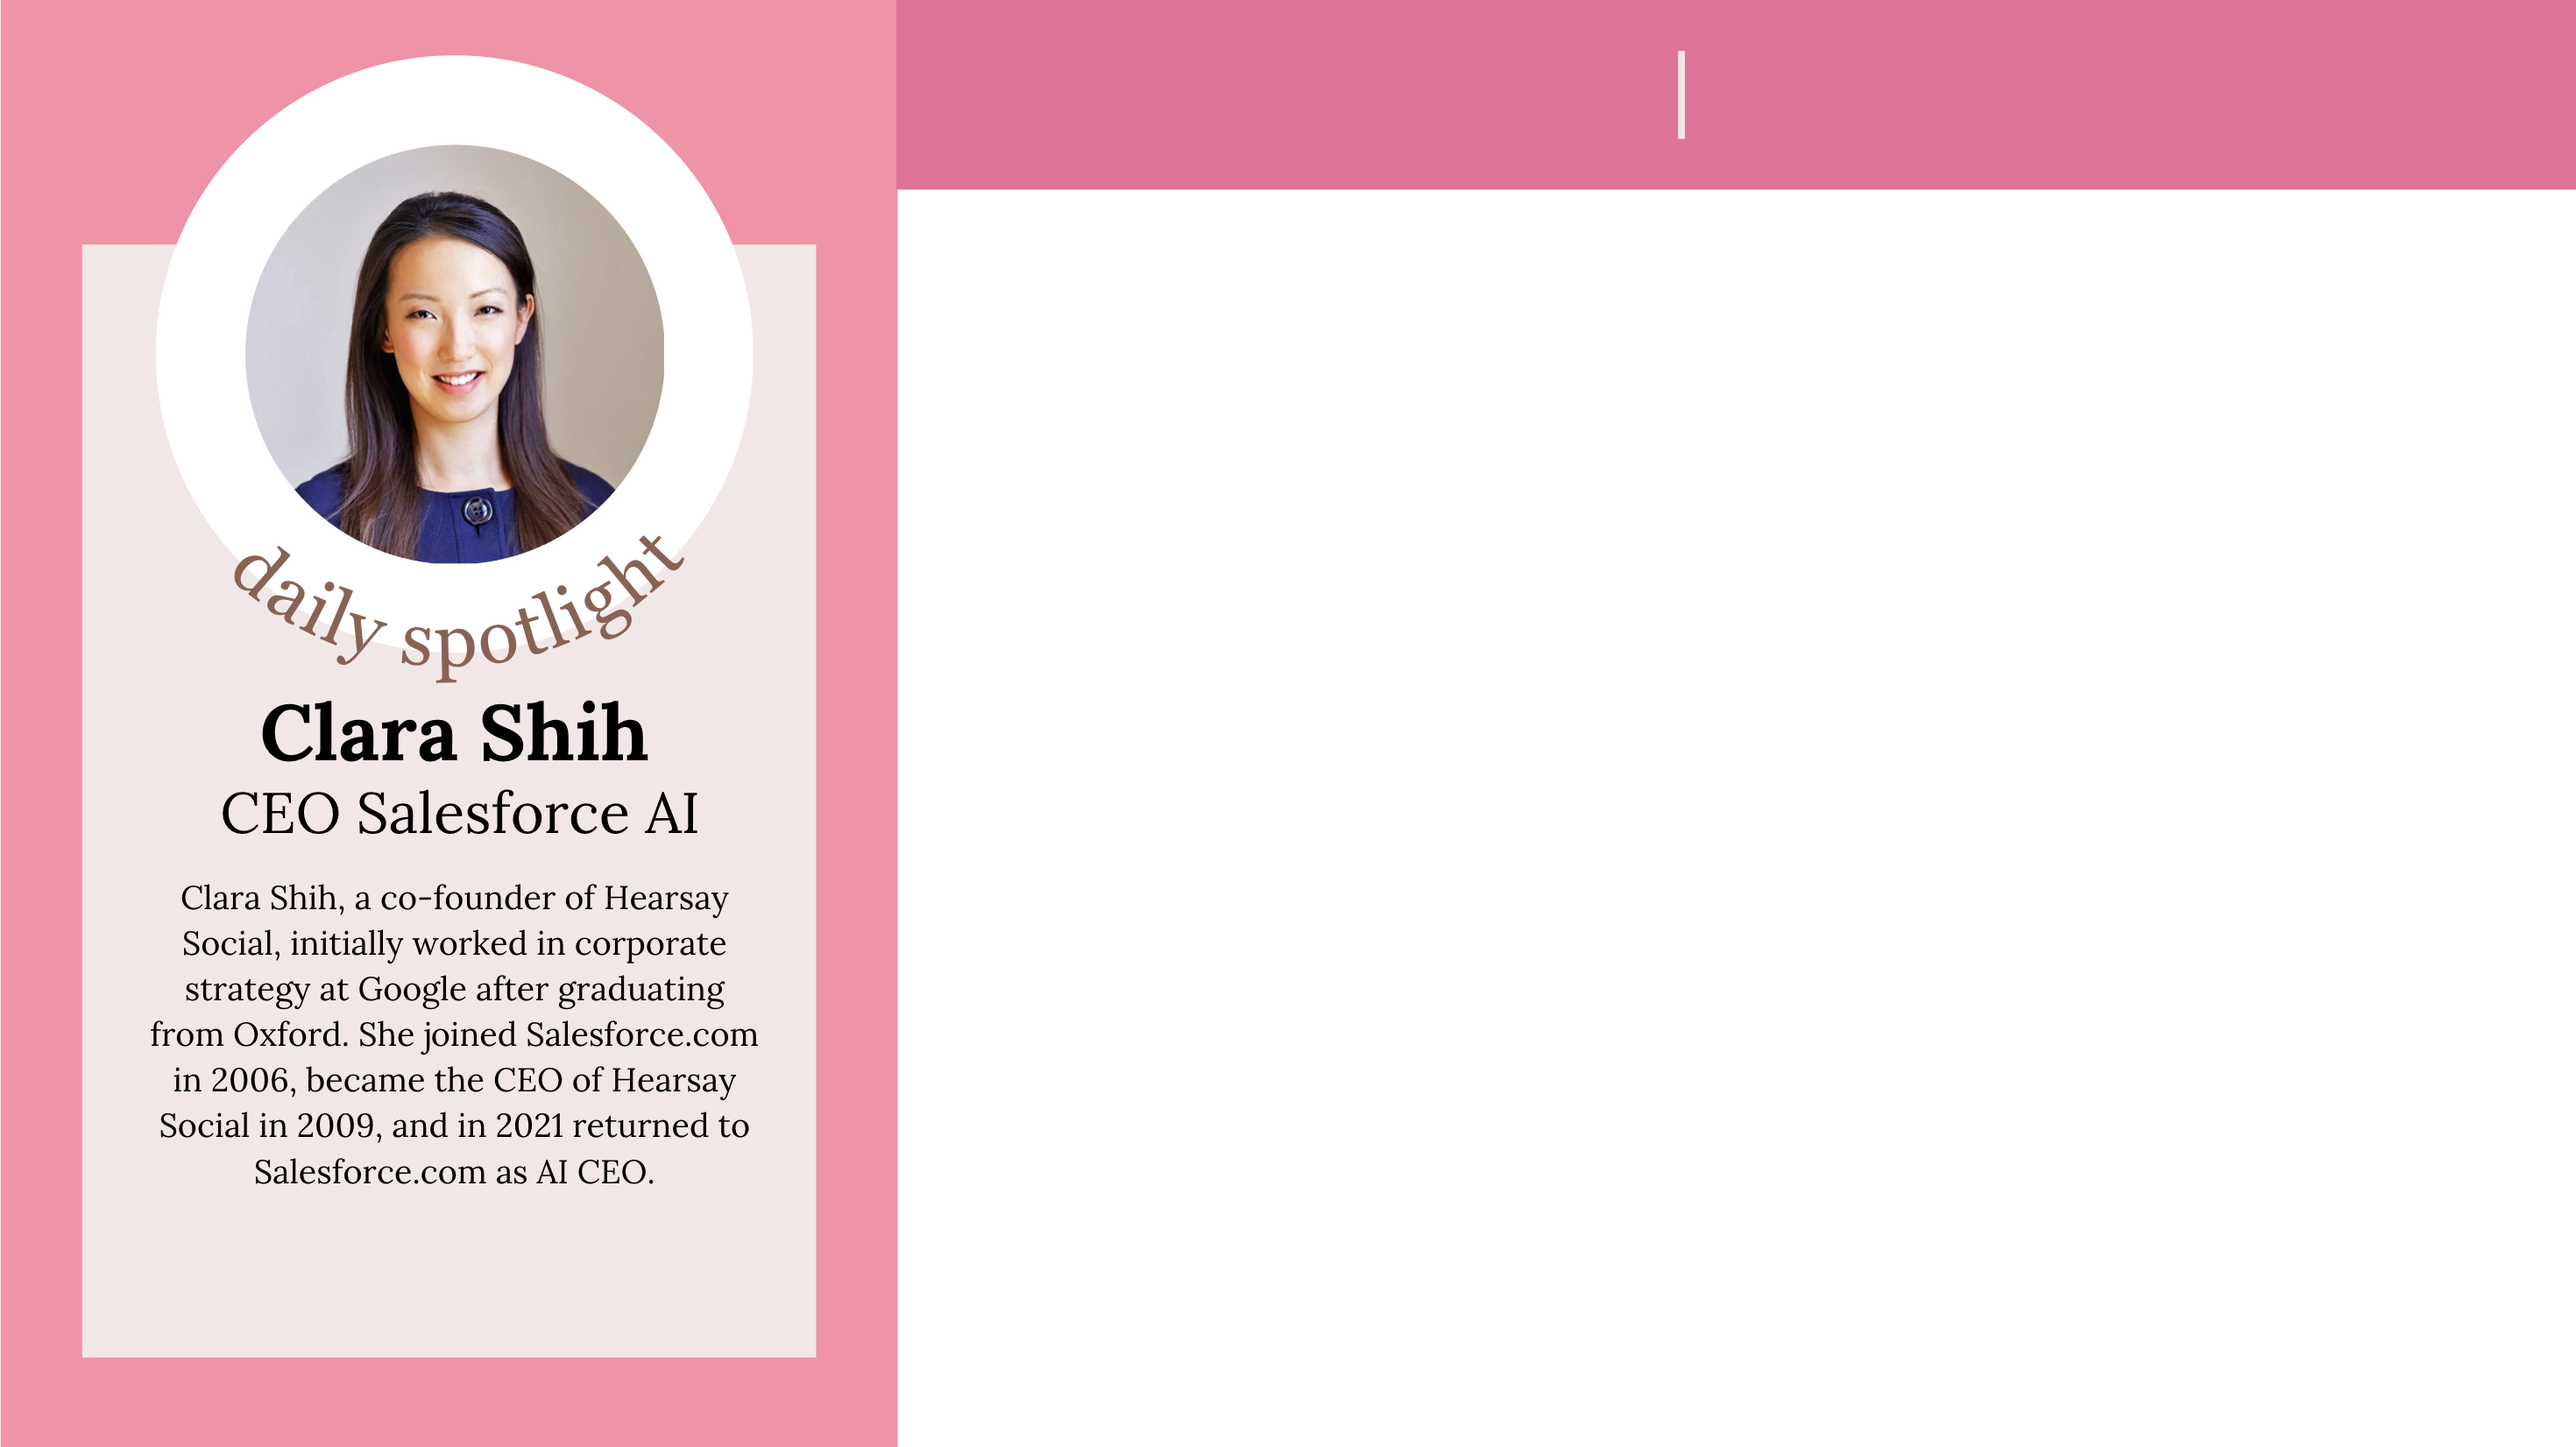
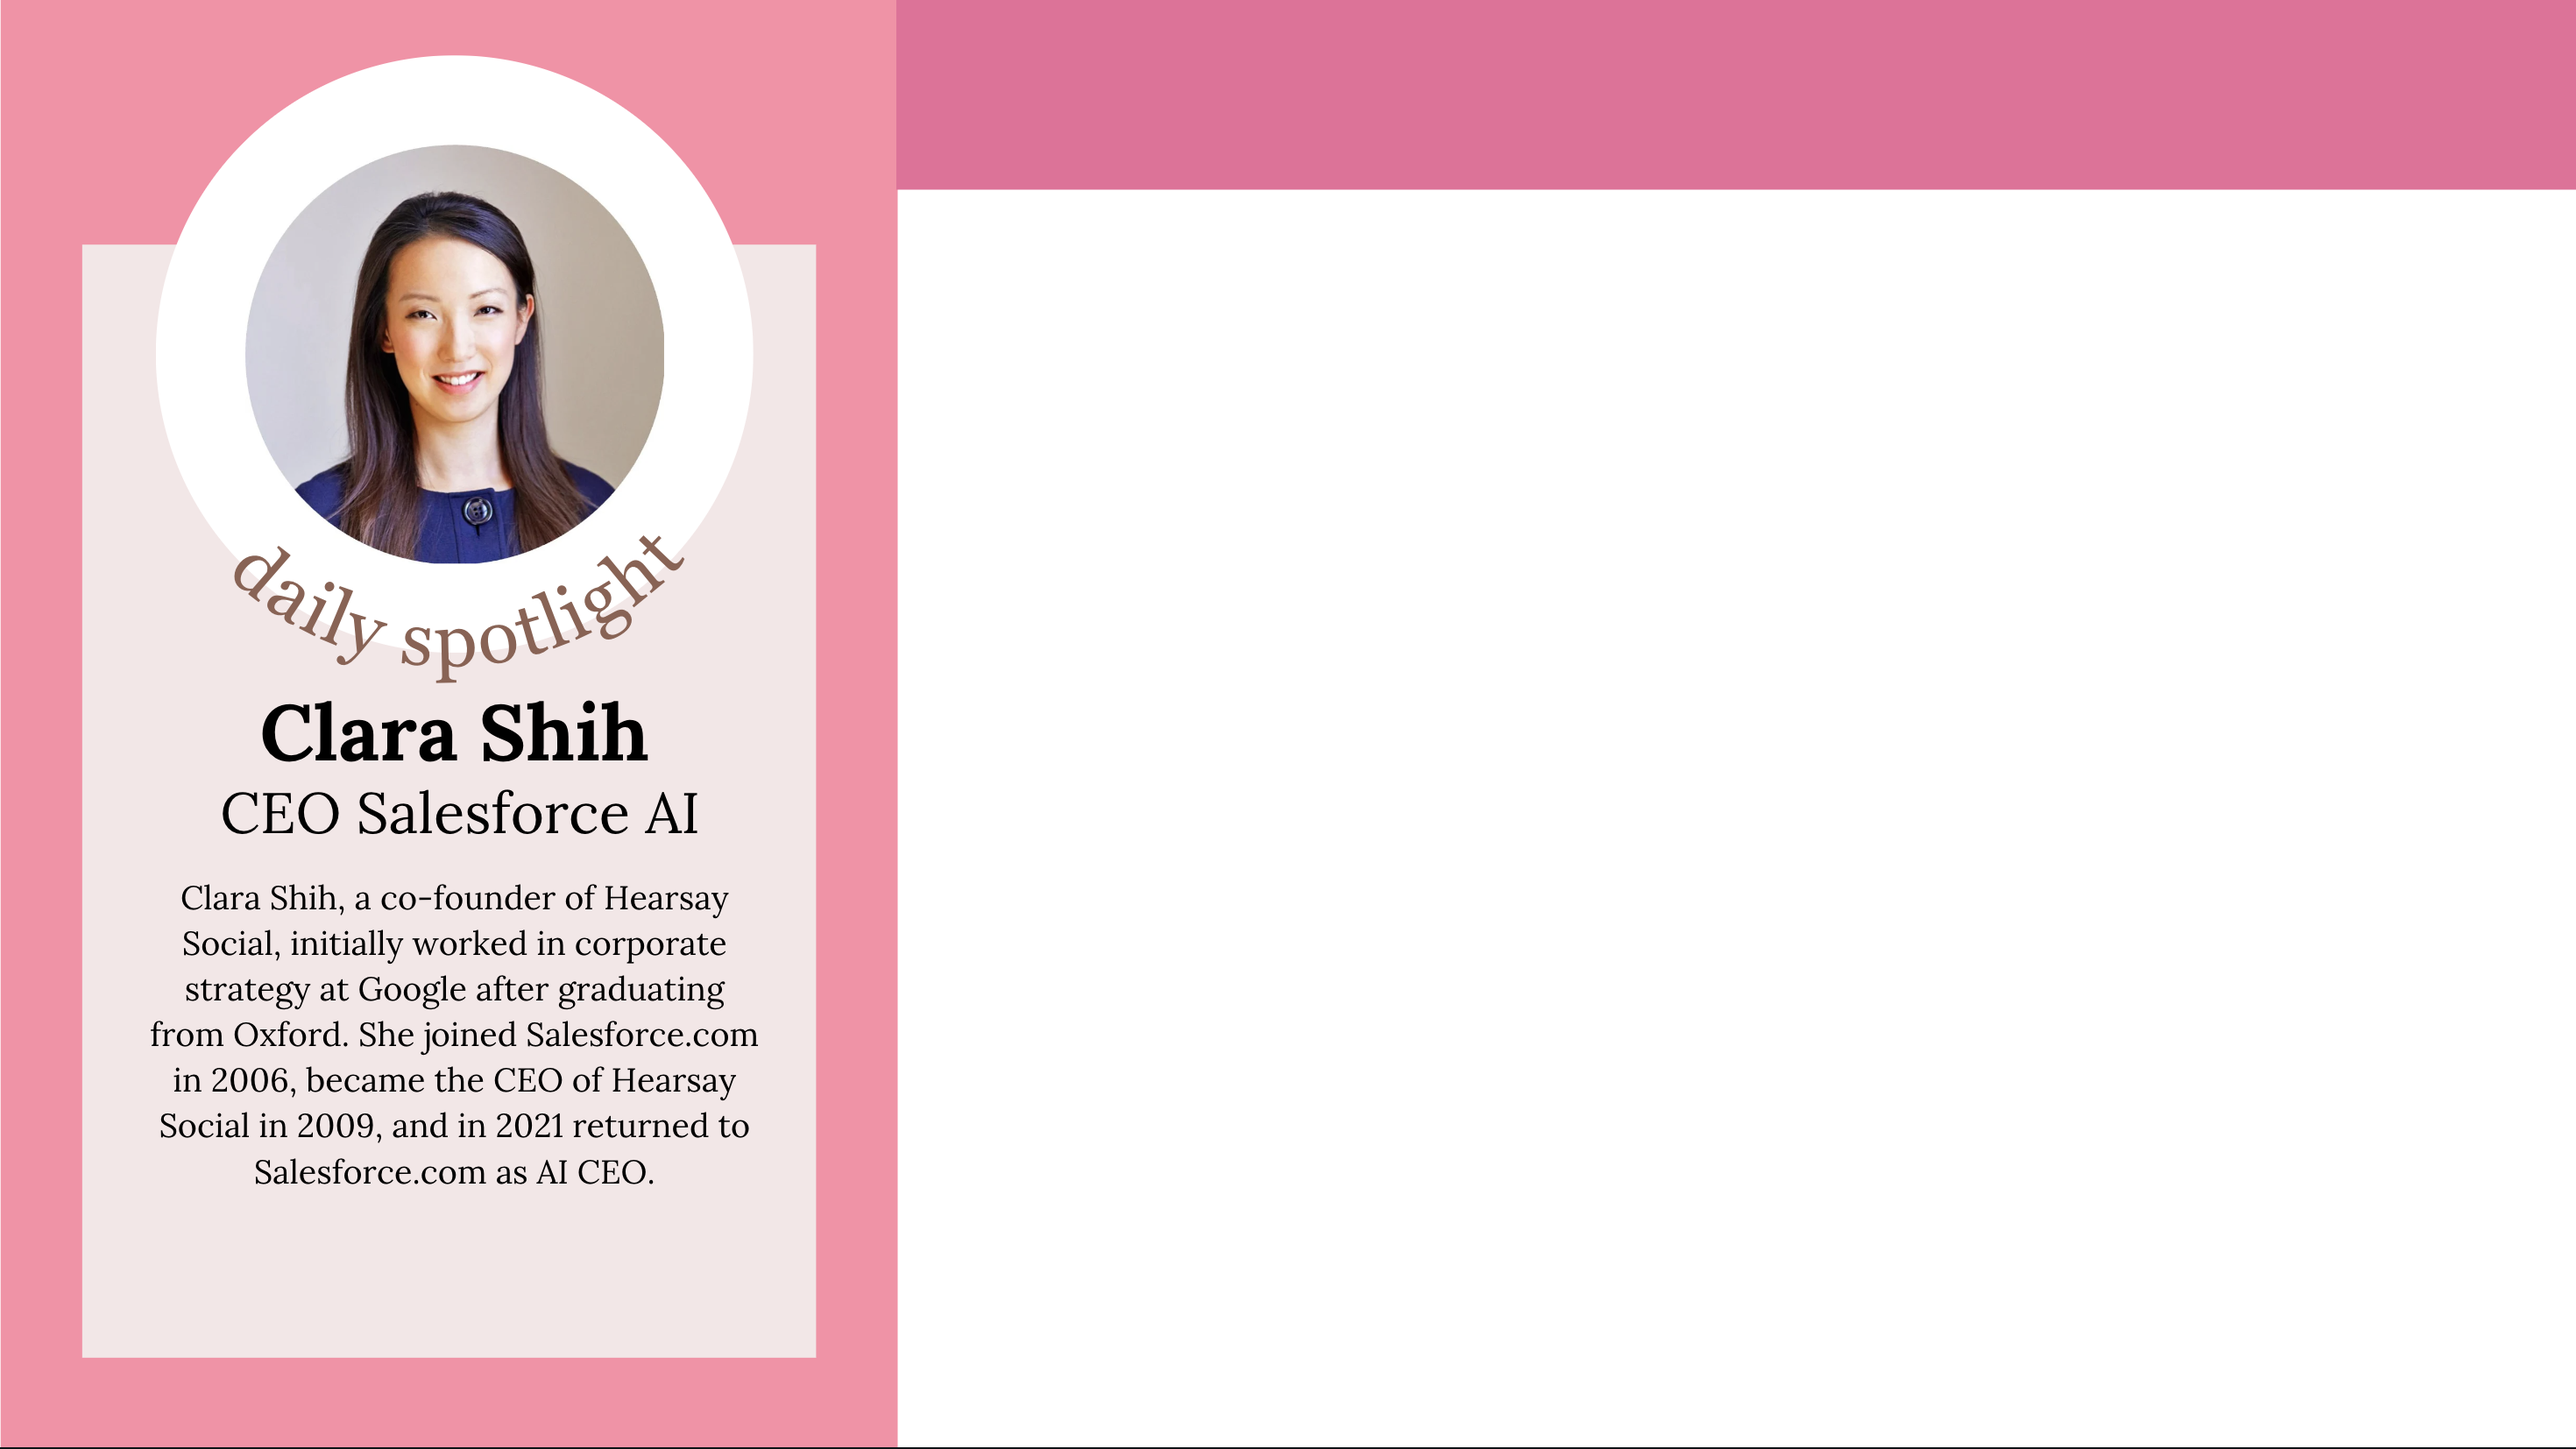
nav bar format + updated blankPage

diff --git a/frontend/src/components/Login/Login.tsx b/frontend/src/components/Login/Login.tsx
@@ -21,7 +21,7 @@ const Login: React.FC<LoginProps> = ({ onLoginSuccess }) => {
       onLoginSuccess();
 
       // Redirect to another page upon successful login
-      navigate('/emailInput'); // Adjust the route as needed
+      navigate('/emailCorrection'); // Adjust the route as needed
     } else {
       // Handle login failure (show error message, etc.)
       console.log('Login failed. Please check your credentials.');
@@ -53,7 +53,7 @@ const Login: React.FC<LoginProps> = ({ onLoginSuccess }) => {
             onChange={(e) => setPassword(e.target.value)}
           />
         </Form.Group>
-        <Button variant="primary" type="submit">
+        <Button className = "button" variant="primary" type="submit">
           Submit
         </Button>
       </Form>

diff --git a/frontend/src/components/EmailCorrectionPage/EmailCorrectionPage.tsx b/frontend/src/components/EmailCorrectionPage/EmailCorrectionPage.tsx
@@ -1,10 +1,16 @@
 import React from 'react';
 import EmailCorrection from '../EmailCorrection/EmailInput'
 import './EmailCorrectionPage.css'
+import NavLink from '../NavLink/NavLink';
 
 const EmailCorrectionPage = () => {
   return (
     <div className = "full-body-container-email">
+      <div className = "links">
+        <NavLink href = "/emailCorrection" title = "Email"/>
+        <NavLink href = "/forum" title = "Forum"/>
+      </div>
+      
       <div className = "email-correct">
       <EmailCorrection />
       </div>

diff --git a/frontend/src/components/EmailCorrectionPage/EmailCorrectionPage.css b/frontend/src/components/EmailCorrectionPage/EmailCorrectionPage.css
@@ -19,3 +19,11 @@
     /*width: 300px; /* Adjust the width of the form container as needed */
     text-align: center;
 }
+
+.links{
+  display:flex;
+  justify-content: space-between;
+  gap: 120px;
+  margin-left: 550px;
+  margin-bottom: 420px;
+}

diff --git a/frontend/src/components/NavLink/NavLink.css b/frontend/src/components/NavLink/NavLink.css
@@ -1,5 +1,5 @@
 .navLink {
     color: #f4e7e7;
-    font-size: 36px;
+    font-size: 30px;
     font-weight: bold;
 }
